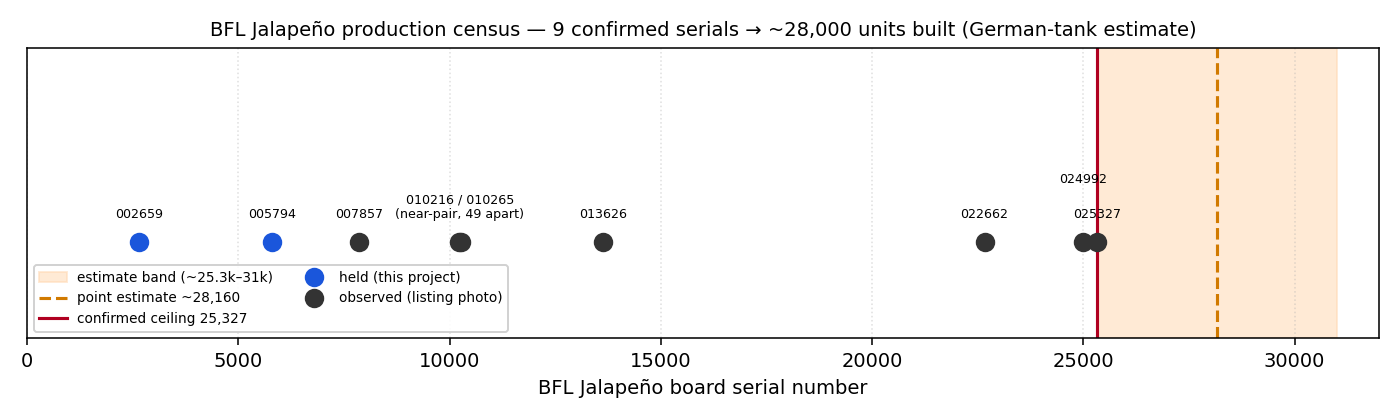
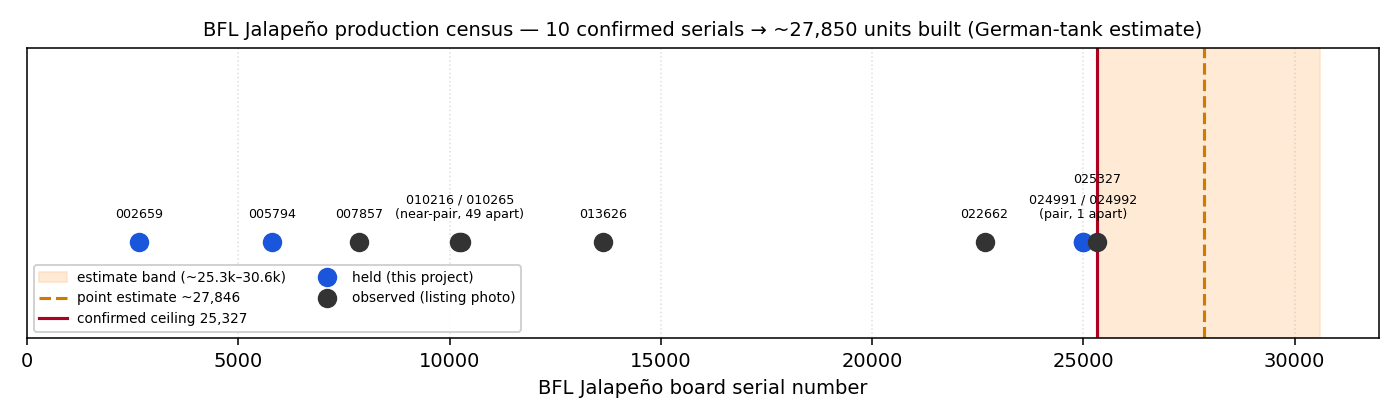
census: add 024991 (consecutive pair) -> 10 serials, estimate refined to ~27,850
Acquired the 024991/024992 consecutive pair (one apart) from a single lot --
024991 is a new 10th confirmed serial, and the pair confirms multi-unit lots
were numbered consecutively. German-tank estimate refines to ~27,846 (avg gap
2519; MVUE 27,859; SE ~2,800), floor >=25,327. Both new serials land in the
high cluster, so the 13.6k->22.7k mid-range gap stays empty as k grows -- a mild
(not conclusive) nudge toward a real numbering gap.

Propagated across all census artifacts: dataset-jalapeno (card + source +
production_census.parquet now 10 rows), docs/production-census.md, the
regenerated chart, and the HF post draft.

Claude-Session: https://claude.ai/code/session_01Bc5zGxL9inNpnp7UG3tTS6

diff --git a/docs/production-census.md b/docs/production-census.md
@@ -9,9 +9,10 @@ Federal Trade Commission found their production claims unsupported).
 
 ## The confirmed serials
 
-Nine board serials confirmed from photographs — units held by this project,
-plus serials visible in online listings. **Prices and sources are intentionally
-omitted:** this is a production study, not a market survey.
+Ten board serials confirmed — units held by this project (including the
+consecutive `024991`/`024992` pair) plus serials visible in online listings.
+**Prices and sources are intentionally omitted:** this is a production study,
+not a market survey.
 
 | Serial | Status |
 |--------|--------|
@@ -22,7 +23,8 @@ omitted:** this is a production study, not a market survey.
 | `010265` | observed — near-consecutive with `010216` |
 | `013626` | observed |
 | `022662` | observed |
-| `024992` | observed — from a multi-unit lot |
+| `024991` | **held** — consecutive with `024992` (1 apart) |
+| `024992` | **held** — consecutive with `024991`; same lot |
 | **`025327`** | observed — **highest confirmed serial** |
 
 ## The estimate (German tank problem)
@@ -32,12 +34,12 @@ the classic way to estimate a total population from a sample of serial numbers:
 the true maximum sits, on average, about one "average gap" beyond the largest
 serial you've actually seen.
 
-- `k = 9` confirmed serials, `min = 2,659`, `max = 25,327`
-- average gap ≈ `(25,327 − 2,659) / (9 − 1)` ≈ **2,834**
-- estimated top ≈ `25,327 + 2,834` ≈ **~28,160**
-- MVUE cross-check: `25,327 × (k+1)/k − 1` ≈ **~28,140**
+- `k = 10` confirmed serials, `min = 2,659`, `max = 25,327`
+- average gap ≈ `(25,327 − 2,659) / (10 − 1)` ≈ **2,519**
+- estimated top ≈ `25,327 + 2,519` ≈ **~27,846**
+- MVUE cross-check: `25,327 × (k+1)/k − 1` ≈ **~27,859**
 
-**Estimate: ~28,000 units built (± ~3,000)**, with a hard floor of **≥ 25,327**
+**Estimate: ~28,000 units built (± ~2,800)**, with a hard floor of **≥ 25,327**
 — you cannot have built fewer units than the highest serial that demonstrably
 exists.
 
@@ -51,6 +53,11 @@ exists.
   possibly sampling sparseness, possibly a **batch boundary or production
   pause**. The units above it are the late-production cohort most likely to
   differ (for example, a later firmware build).
+- **An even tighter pair — `024991` / `024992`, *one* apart.** Acquired
+  together from a single lot, which proves multi-unit lots were numbered
+  **consecutively**. Both landed in the high cluster, so the 13.6k→22.7k gap
+  *stayed empty* as the sample grew — a mild nudge toward a real numbering gap,
+  though still far from conclusive.
 - **Real binning drift is already visible** between our two units: `002659`
   self-reports 27 engines at ~200 MHz; `005794` reports 29 engines at ~214 MHz
   (and a higher estimated hashrate). Same architecture, different bin.

diff --git a/dataset-jalapeno/README.md b/dataset-jalapeno/README.md
@@ -40,9 +40,9 @@ measured model-free in 2026. Fed identical work, both units return the
 years on — yet they **bin differently** (27 engines @ ~200 MHz vs 29 @ ~214).
 Both are error-free and fully deterministic over hours of sustained work.
 
-Separately, a **serial-number production census**: from nine confirmed serials
+Separately, a **serial-number production census**: from ten confirmed serials
 (highest = `025327`), the German-tank estimator puts total production at
-**~28,000 units built ± ~3,000** (floor ≥ 25,327). Serials count units
+**~28,000 units built ± ~2,800** (floor ≥ 25,327). Serials count units
 *manufactured* — so the gap between that and what Butterfly Labs actually
 shipped is the FTC fraud case, quantified.
 
@@ -59,7 +59,7 @@ toolkit (MIT). Four small tables:
 | `units` | 2 | Per-unit `ZCX` census + identity (engines, per-processor topology, clock, firmware) |
 | `characterization` | 3–4 | Per sustained-work run: throughput, determinism, thermal plateau, dead-core verdict |
 | `cross_unit_determinism` | 2 | The identical fixed work → identical winning nonces on both units |
-| `production_census` | 9 | The confirmed serial numbers behind the German-tank estimate |
+| `production_census` | 10 | The confirmed serial numbers behind the German-tank estimate |
 
 The raw characterization runs live in the toolkit repo
 (`docs/characterization/`) and are regenerable via
@@ -85,10 +85,11 @@ this dataset adds is the *curated, cross-checked* distillation.
    4-hour, and a supervised temperature sweep); per-job winner count Poisson(~1)
    throughout; thermally over-built (won't error even fan-off on a desk). Both
    units read HEALTHY on dead-core detection.
-4. **~28,000 units built.** German-tank estimate over 9 confirmed serials
-   (min 2,659, max 25,327): `25,327 + (25,327−2,659)/8 ≈ 28,160` (MVUE
-   cross-check ≈ 28,140), floor ≥ 25,327, standard error ≈ ±3,000. Serials count
-   units manufactured, not shipped.
+4. **~28,000 units built.** German-tank estimate over 10 confirmed serials
+   (min 2,659, max 25,327): `25,327 + (25,327−2,659)/9 ≈ 27,846` (MVUE
+   cross-check ≈ 27,859), floor ≥ 25,327, standard error ≈ ±2,800. Serials count
+   units manufactured, not shipped. A consecutive pair (024991/024992, one
+   apart) confirms multi-unit lots were numbered consecutively.
 
 ## Quick start
 
